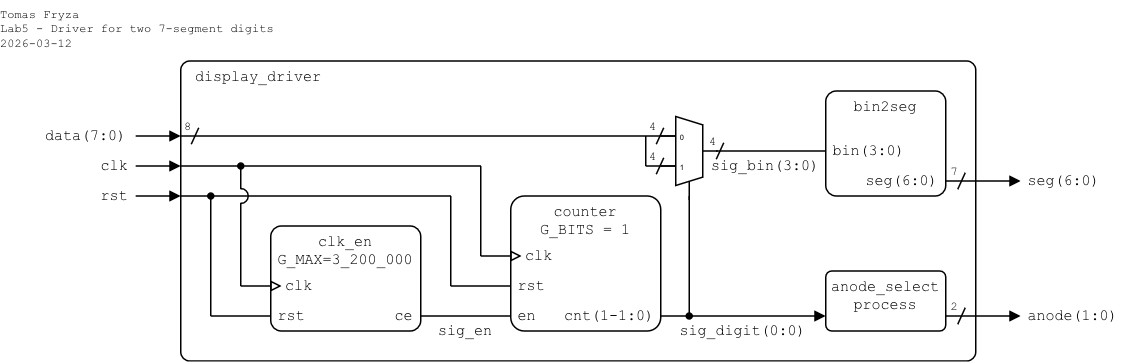
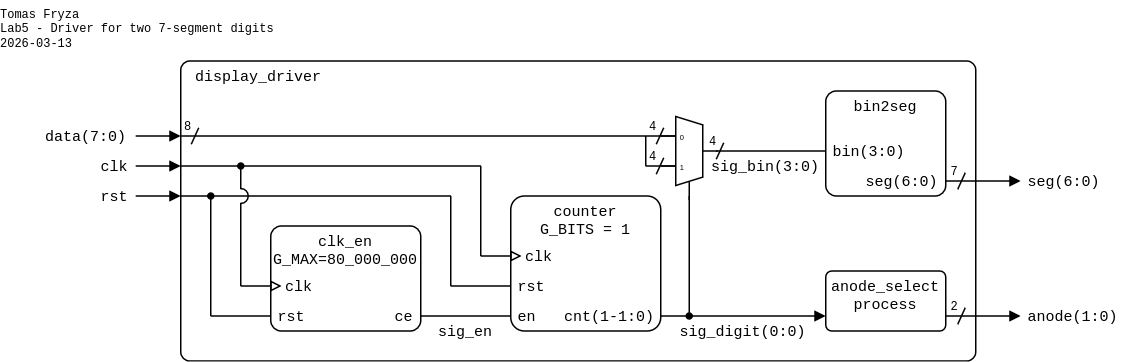
g_max modified

diff --git a/lab5-display/README.md b/lab5-display/README.md
@@ -89,9 +89,9 @@ A common way to control multiple 7-segment displays is **multiplexing**, where t
        -- Clock enable generator for refresh timing
        ------------------------------------------------------------------------
        clock_0 : clk_en
-           generic map ( G_MAX => 32 )  -- Adjust for flicker-free multiplexing
-           port map (                   -- For simulation: 32
-               clk => clk,              -- For implementation: 3_200_000
+           generic map ( G_MAX => 8 )  -- Adjust for flicker-free multiplexing
+           port map (                  -- For simulation: 8
+               clk => clk,             -- For implementation: 80_000_000
                rst => rst,
                ce  => sig_en
            );
@@ -186,7 +186,9 @@ A common way to control multiple 7-segment displays is **multiplexing**, where t
 
 ## Task 2: Top-level design and FPGA implementation
 
-1. In your project, create a new VHDL design source file named `display_top`. Define I/O ports as follows.
+1. **Important:** Change the `G_MAX` parameter in the `clk_en` instantiation in the driver architecture to `80_000_000`. What is the resulting clock enable period for a 100&nbsp;MHz clock (10&nbsp;ns period)?
+
+2. In your project, create a new VHDL design source file named `display_top`. Define I/O ports as follows.
 
    | **Port name** | **Direction** | **Type** | **Description** |
    | :-: | :-: | :-- | :-- |
@@ -196,8 +198,6 @@ A common way to control multiple 7-segment displays is **multiplexing**, where t
    | `seg` | out | `std_logic_vector(6 downto 0)` | Seven-segment cathodes CA..CG (active-low) |
    | `an` | out | `std_logic_vector(7 downto 0)` | Seven-segment anodes AN7..AN0 (active-low) |
    | `dp` | out | `std_logic` | Seven-segment decimal point (active-low, not used) |
-
-2. **Important:** Change the `G_MAX` parameter in the `clk_en` instantiation of the driver architecture to **3_200_000**!
 
 3. Provide an instantiation of the `display_driver` circuit and complete the top-level architecture according to the following schematic and template.
 
@@ -236,7 +236,7 @@ A common way to control multiple 7-segment displays is **multiplexing**, where t
    3. Select **Open Target > Auto Connect** (make sure Nexys A7 board is connected and switched on).
    4. Click **Program device** and select the generated file `YOUR-PROJECT-FOLDER/display.runs/impl_1/display_top.bit`.
 
-6. Modify the `G_MAX` parameter in the `display_driver.vhd` file so that the display does not appear to blink.
+6. Modify the `G_MAX` parameter in the `display_driver.vhd` file so that the display does not appear to blink. What refresh period is sufficient for the human eye?
 
 7. Use **Implementation > Open Implemented Design > Schematic** to see the generated structure.
 
